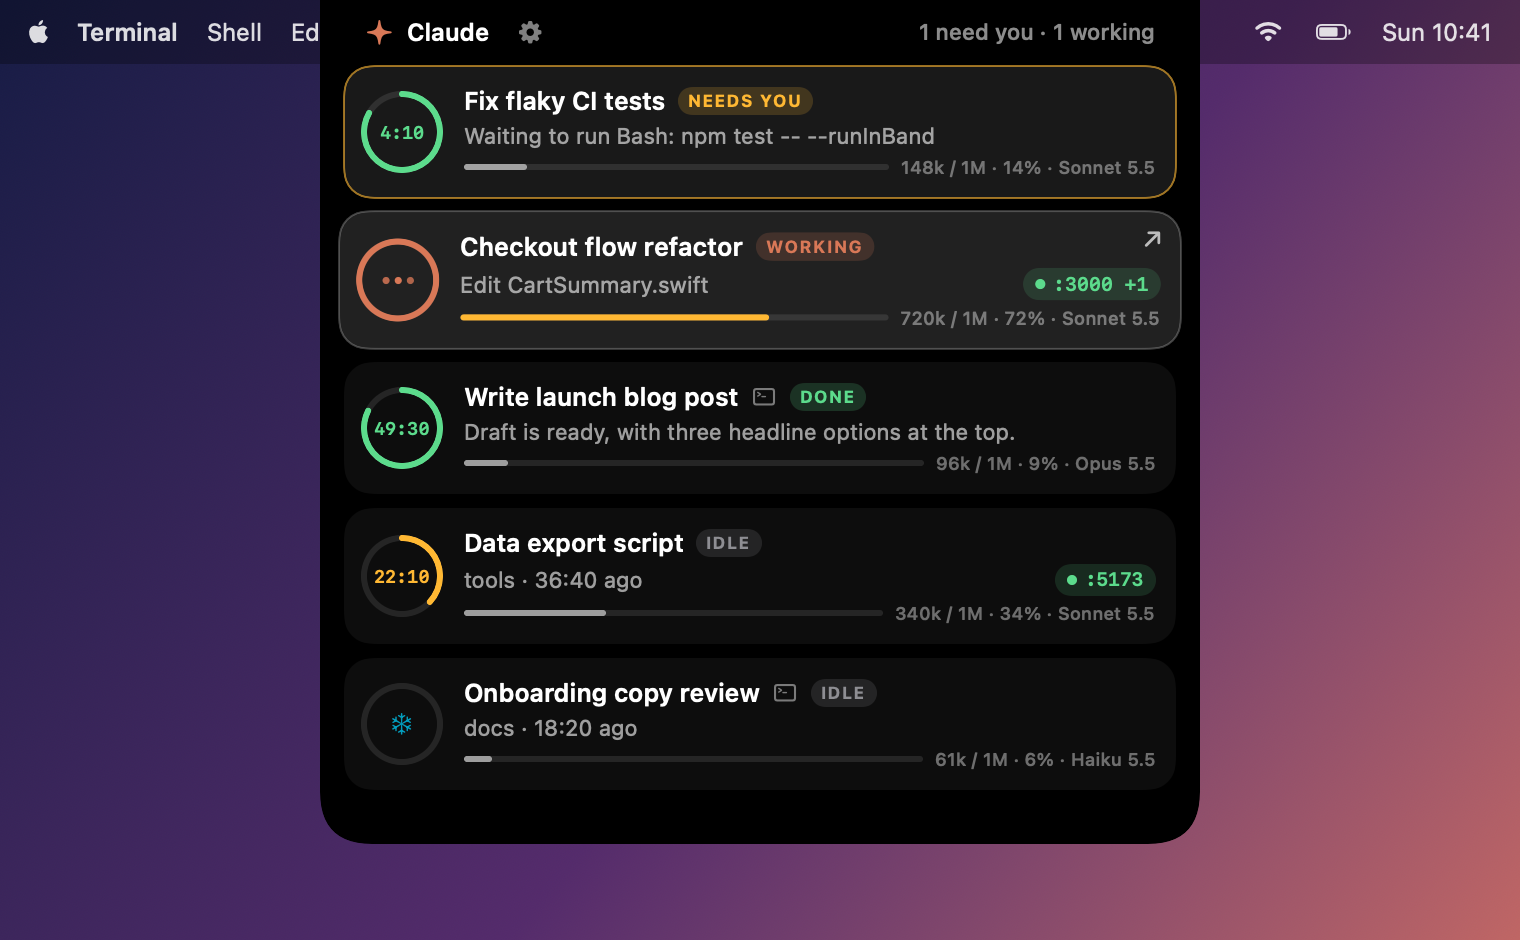
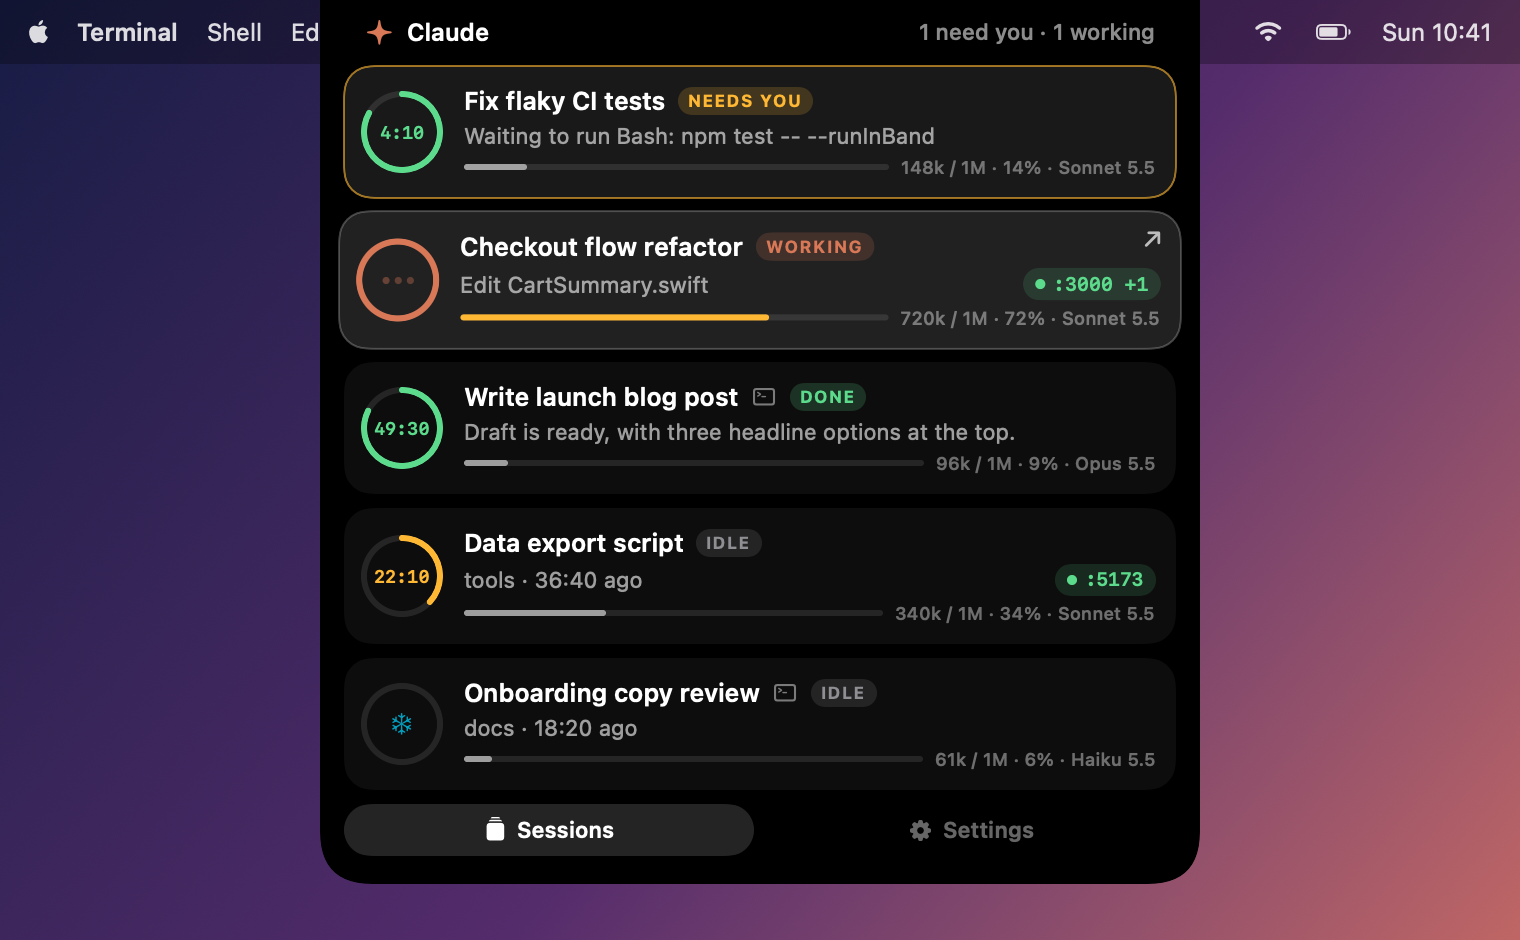
Bottom tab bar: Sessions and Settings
Replaces the gear and back arrow.

Changed region(s): [[0.1855, 0.833, 0.8039, 0.9564], [0.3401, 0.0309, 0.3711, 0.0617]]

diff --git a/Sources/ClaudeNotch/Views/NotchRootView.swift b/Sources/ClaudeNotch/Views/NotchRootView.swift
@@ -26,9 +26,9 @@ struct NotchRootView: View {
         switch model.mode {
         case .collapsed: CollapsedBar(model: model)
         case .peek: AlertBar(model: model)
-        case .expanded: SessionListView(model: model)
+        case .expanded: TabbedPage(model: model) { SessionListView(model: model) }
         case .request: RequestListView(model: model)
-        case .settings: SettingsView(model: model)
+        case .settings: TabbedPage(model: model) { SettingsView(model: model) }
         }
     }
 }
@@ -51,5 +51,38 @@ struct NotchShape: Shape {
         path.addQuadCurve(to: CGPoint(x: rect.minX, y: rect.maxY - radius), control: CGPoint(x: rect.minX, y: rect.maxY))
         path.closeSubpath()
         return path
+    }
+}
+
+/// A page with the Sessions / Settings tabs along the bottom.
+struct TabbedPage<Content: View>: View {
+    @ObservedObject var model: NotchModel
+    @ViewBuilder let content: Content
+
+    var body: some View {
+        VStack(spacing: 0) {
+            content.frame(maxWidth: .infinity, maxHeight: .infinity, alignment: .top)
+            HStack(spacing: 6) {
+                tab("Sessions", icon: "square.stack.fill", selected: model.mode == .expanded) { model.hideSettings() }
+                tab("Settings", icon: "gearshape.fill", selected: model.mode == .settings) { model.showSettings() }
+            }
+            .padding(.horizontal, NotchGeometry.listInset)
+            .frame(height: NotchGeometry.tabBarHeight, alignment: .top)
+        }
+    }
+
+    private func tab(_ title: String, icon: String, selected: Bool, action: @escaping () -> Void) -> some View {
+        Button(action: action) {
+            HStack(spacing: 5) {
+                Image(systemName: icon).font(.system(size: 10, weight: .semibold))
+                Text(title).font(.system(size: 11, weight: .semibold))
+            }
+            .foregroundStyle(selected ? Color.white : .white.opacity(0.4))
+            .frame(maxWidth: .infinity)
+            .frame(height: 26)
+            .background(Capsule().fill(.white.opacity(selected ? 0.14 : 0)))
+            .contentShape(Capsule())
+        }
+        .buttonStyle(.plain)
     }
 }

diff --git a/Sources/NotchCore/Models/NotchGeometry.swift b/Sources/NotchCore/Models/NotchGeometry.swift
@@ -51,6 +51,8 @@ public struct NotchGeometry {
     public static let peekHeight: CGFloat = 46
     public static let peekMinWidth: CGFloat = 400
     private static let bottomPadding: CGFloat = 20
+    /// The Sessions / Settings tabs along the bottom of the list and the settings page.
+    public static let tabBarHeight: CGFloat = 40
 
     // MARK: Sizes
 
@@ -64,10 +66,10 @@ public struct NotchGeometry {
             return CGSize(width: max(collapsedWidth, Self.peekMinWidth), height: notchHeight + Self.peekHeight)
         case .expanded:
             let rows = CGFloat(max(1, min(sessionCount, Self.maxSessionRows)))
-            return CGSize(width: Self.listWidth, height: notchHeight + rows * Self.sessionRowPitch + Self.bottomPadding)
+            return CGSize(width: Self.listWidth, height: notchHeight + rows * Self.sessionRowPitch + Self.tabBarHeight)
         case .settings:
             let rows = CGFloat(Self.settingsRowCount)
-            return CGSize(width: Self.listWidth, height: notchHeight + rows * (Self.settingsRowHeight + Self.rowSpacing) + Self.bottomPadding)
+            return CGSize(width: Self.listWidth, height: notchHeight + rows * (Self.settingsRowHeight + Self.rowSpacing) + Self.tabBarHeight)
         case .request:
             let shown = min(requestCount, Self.maxRequestRows)
             let rows = (0..<shown).reduce(CGFloat(0)) { total, index in

diff --git a/Sources/ClaudeNotch/Views/SettingsView.swift b/Sources/ClaudeNotch/Views/SettingsView.swift
@@ -1,7 +1,7 @@
 import SwiftUI
 import NotchCore
 
-/// The settings page, drawn inside the notch: a back arrow, a few switches, pause and quit.
+/// The settings page, drawn inside the notch: a few switches, pause and quit.
 struct SettingsView: View {
     @ObservedObject var model: NotchModel
 
@@ -30,21 +30,7 @@ struct SettingsView: View {
     }
 
     private var header: some View {
-        HStack {
-            Button { model.hideSettings() } label: {
-                HStack(spacing: 6) {
-                    Image(systemName: "chevron.left").font(.system(size: 11, weight: .bold))
-                    Text("Settings").font(.system(size: 12, weight: .semibold))
-                }
-                .foregroundStyle(.white)
-                .padding(.vertical, 6)
-                .contentShape(Rectangle())
-            }
-            .buttonStyle(.plain)
-            .padding(.leading, 22)
-            Spacer()
-        }
-        .frame(height: model.geometry.notchHeight)
+        NotchHeader(height: model.geometry.notchHeight, iconTint: Palette.claude, status: "Settings", statusTint: .white.opacity(0.55))
     }
 }
 

diff --git a/Sources/ClaudeNotch/Views/NotchHeader.swift b/Sources/ClaudeNotch/Views/NotchHeader.swift
@@ -7,8 +7,6 @@ struct NotchHeader: View {
     let iconTint: Color
     let status: String
     let statusTint: Color
-    /// When set, a gear button appears next to the name.
-    var onSettings: (() -> Void)?
 
     var body: some View {
         HStack {
@@ -17,17 +15,6 @@ struct NotchHeader: View {
                 Text("Claude").font(.system(size: 12, weight: .semibold)).foregroundStyle(.white)
             }
             .padding(.leading, 22)
-            if let onSettings {
-                Button(action: onSettings) {
-                    Image(systemName: "gearshape.fill")
-                        .font(.system(size: 11))
-                        .foregroundStyle(.white.opacity(0.5))
-                        .frame(width: 24, height: 24)
-                        .contentShape(Rectangle())
-                }
-                .buttonStyle(.plain)
-                .help("Settings")
-            }
             Spacer()
             Text(status)
                 .font(.system(size: 11, weight: .medium))

diff --git a/Tests/NotchCoreTests/GeometryAndLinkerTests.swift b/Tests/NotchCoreTests/GeometryAndLinkerTests.swift
@@ -11,9 +11,9 @@ final class NotchGeometryTests: XCTestCase {
 
     func testListHeightGrowsPerSessionAndIsCapped() {
         let three = geometry.size(for: .expanded, sessionCount: 3, requestCount: 0)
-        XCTAssertEqual(three.height, 32 + 3 * 74 + 20)
-        XCTAssertEqual(geometry.size(for: .expanded, sessionCount: 50, requestCount: 0).height, 32 + 6 * 74 + 20)
-        XCTAssertEqual(geometry.size(for: .expanded, sessionCount: 0, requestCount: 0).height, 32 + 74 + 20, "room for the empty message")
+        XCTAssertEqual(three.height, 32 + 3 * 74 + NotchGeometry.tabBarHeight)
+        XCTAssertEqual(geometry.size(for: .expanded, sessionCount: 50, requestCount: 0).height, 32 + 6 * 74 + NotchGeometry.tabBarHeight)
+        XCTAssertEqual(geometry.size(for: .expanded, sessionCount: 0, requestCount: 0).height, 32 + 74 + NotchGeometry.tabBarHeight, "room for the empty message")
     }
 
     func testRequestListIsCappedWithAnOverflowLine() {

diff --git a/Sources/ClaudeNotch/ScreenshotRenderer.swift b/Sources/ClaudeNotch/ScreenshotRenderer.swift
@@ -37,7 +37,7 @@ enum ScreenshotRenderer {
             ("alert.png", model(mode: .peek, alert: alert), 150),
             ("session-list.png", model(mode: .expanded, pointer: hoverSecondCard), 470),
             ("stop-server.png", model(mode: .expanded, serverMenu: "demo-checkout"), 470),
-            ("settings.png", model(mode: .settings), 330),
+            ("settings.png", model(mode: .settings), 350),
             ("approvals.png", model(mode: .request, requests: approvals), 270),
         ]
         for scene in scenes {

diff --git a/Sources/ClaudeNotch/Views/SessionListView.swift b/Sources/ClaudeNotch/Views/SessionListView.swift
@@ -47,8 +47,7 @@ struct SessionListView: View {
     }
 
     private var header: some View {
-        NotchHeader(height: model.geometry.notchHeight, iconTint: Palette.claude, status: summary, statusTint: .white.opacity(0.55),
-                    onSettings: { model.showSettings() })
+        NotchHeader(height: model.geometry.notchHeight, iconTint: Palette.claude, status: summary, statusTint: .white.opacity(0.55))
     }
 
     private var summary: String {

diff --git a/README.md b/README.md
@@ -95,7 +95,7 @@ Alerts are skipped while your pointer is on the notch, and while quiet mode is a
 - the **state** label and what the session is doing (`Bash: swift build`, `Waiting to run …`, or its last words).
 - the **context bar**: tokens used out of the model's window.
 
-Click the gear in the list for settings, or right-click it for Pause and Quit.
+Use the Settings tab for the options, or right-click the list for Pause and Quit.
 
 **Approvals.** When Claude asks to run a tool, the notch shows the request. Allow and Deny answer Claude directly. "Ask in app" hands the prompt back to Claude's own dialog, and so does doing nothing for about 110 seconds, closing the notch app, or answering in Claude first. Questions and plan approvals are never intercepted: they need Claude's full interface.
 
@@ -105,7 +105,7 @@ Allow does not override your deny rules or Claude's other safeguards. It answers
 
 **When Claude is already in front.** If the Claude desktop app (or a terminal) is the app you're using, approval cards don't drop down and make no sound: Claude is showing its own prompt right there. The notch shows its amber badge instead, hovering it opens the cards, and switching to another app drops them down. They are held back rather than handed back to Claude, because the session that is asking may not be the one on your screen. Turn it off with *Quiet when Claude is in front* in the notch settings.
 
-Click the **gear** in the session list to open the settings inside the notch (the back arrow returns to the list):
+Use the **Settings** tab along the bottom of the notch (and **Sessions** to go back):
 
 - **Quiet in full screen** (on by default). While a full-screen app is in front, the notch draws nothing, plays no sounds and lets every click through. When you leave full screen it returns, and any approval still waiting is shown.
 - **Sounds** can be switched off entirely.
